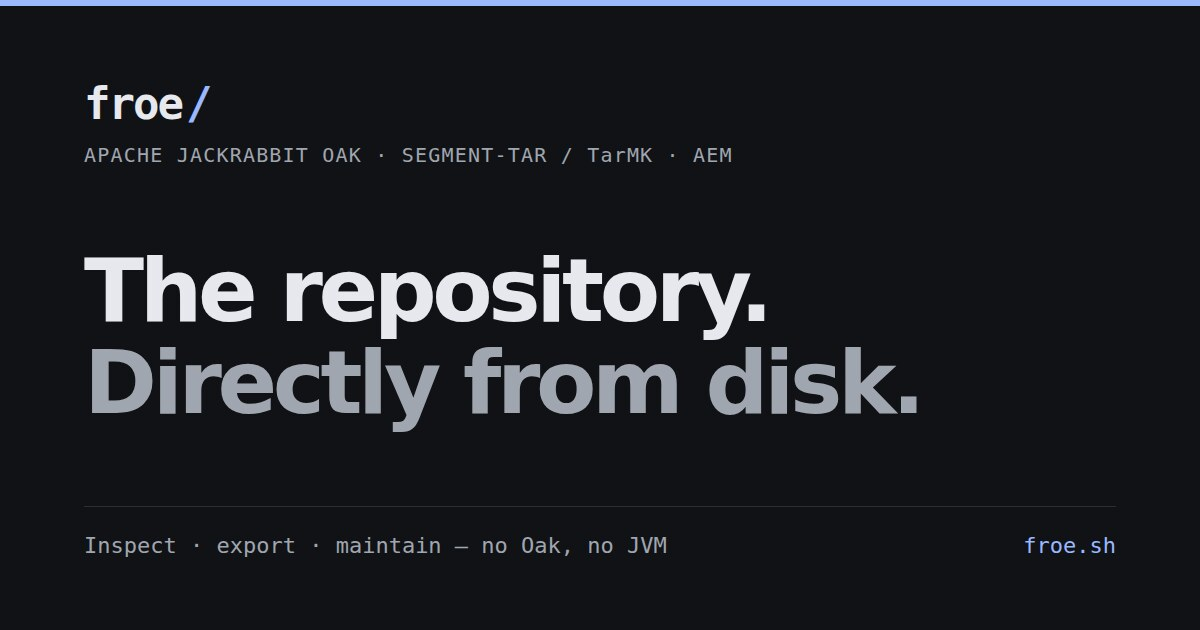
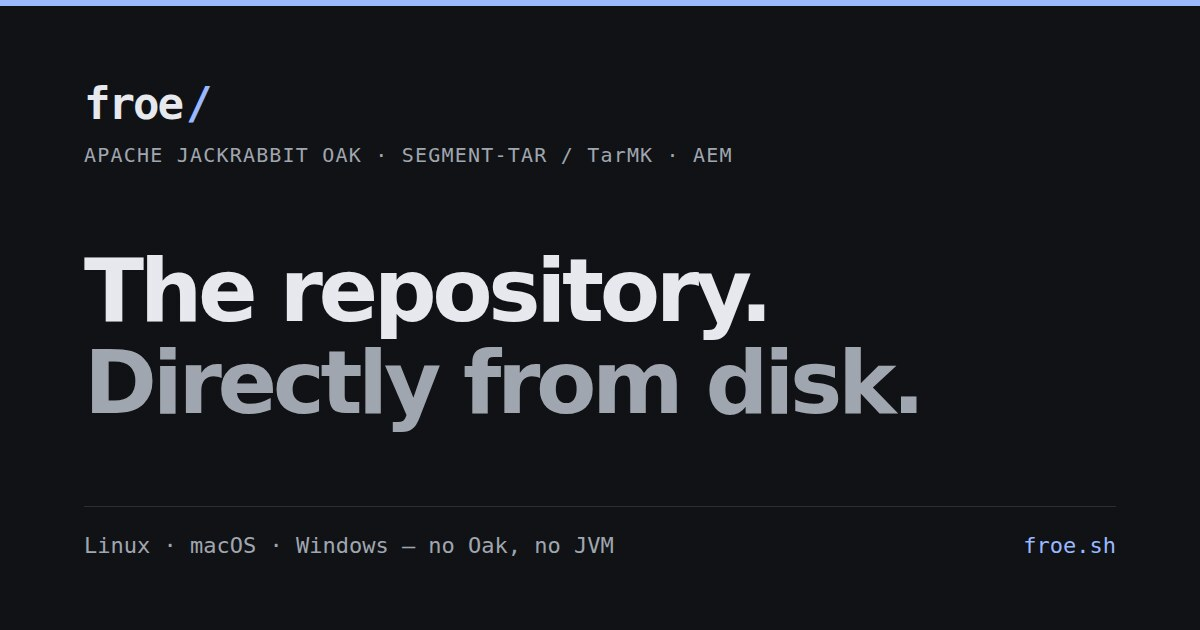
fix: name windows on the share card
The card's source is now kept in scripts/og.html so it can be re-rendered.

Changed region(s): [[0.0617, 0.8444, 0.555, 0.8746]]

diff --git a/scripts/og.html b/scripts/og.html
@@ -1,0 +1,14 @@
+<!doctype html><html><head><meta charset="utf-8"><style>
+html,body{margin:0;width:1200px;height:630px;background:#101215;color:#e6e8ed;font-family:-apple-system,"Segoe UI",Inter,"DejaVu Sans",sans-serif;-webkit-font-smoothing:antialiased}
+.c{box-sizing:border-box;height:100%;padding:72px 84px;display:flex;flex-direction:column;justify-content:space-between;border-top:6px solid #9ab8ff}
+.mono{font-family:ui-monospace,"DejaVu Sans Mono","Liberation Mono",monospace}
+.wm{font-size:44px;font-weight:650;letter-spacing:-2px}.wm span{color:#9ab8ff;margin-left:4px}
+.eb{font-size:20px;letter-spacing:.06em;color:#a0a6b0;margin-top:14px}
+h1{font-size:88px;line-height:1.04;letter-spacing:-.05em;font-weight:550;margin:0}h1 span{color:#a0a6b0}
+.f{display:flex;justify-content:space-between;align-items:flex-end;font-size:22px;color:#a0a6b0;border-top:1px solid #2a2e36;padding-top:26px}
+.f b{color:#9ab8ff;font-weight:500}
+</style></head><body><div class="c">
+<div><div class="wm mono">froe<span>/</span></div><div class="eb mono">APACHE JACKRABBIT OAK · SEGMENT-TAR / TarMK · AEM</div></div>
+<h1>The repository.<br><span>Directly from disk.</span></h1>
+<div class="f mono"><span>Linux · macOS · Windows — no Oak, no JVM</span><b>froe.sh</b></div>
+</div></body></html>

diff --git a/README.md b/README.md
@@ -9,7 +9,7 @@ The website for [Froe](https://github.com/koraytaylan/froe), a Rust CLI and libr
 | `public/index.html` | The page: one self-contained HTML file, styles and scripts inline. |
 | `public/index.md` | The page in markdown, generated from `index.html` by `scripts/index-md.py`. |
 | `public/llms.txt`, `robots.txt`, `sitemap.xml` | Crawler and LLM entry points. |
-| `public/og.jpg`, `favicon.*`, `apple-touch-icon.png` | Share card and icons. |
+| `public/og.jpg`, `favicon.*`, `apple-touch-icon.png` | Share card and icons; `og.jpg` is a 1200×630 headless Chrome screenshot of `scripts/og.html`. |
 | `src/worker.js` | Cloudflare Worker in front of the static files; sends `http://` and `www.froe.sh` to `https://froe.sh` with a 301. |
 | `wrangler.jsonc` | Worker name, static assets and the `froe.sh` / `www.froe.sh` custom domains. |
 
